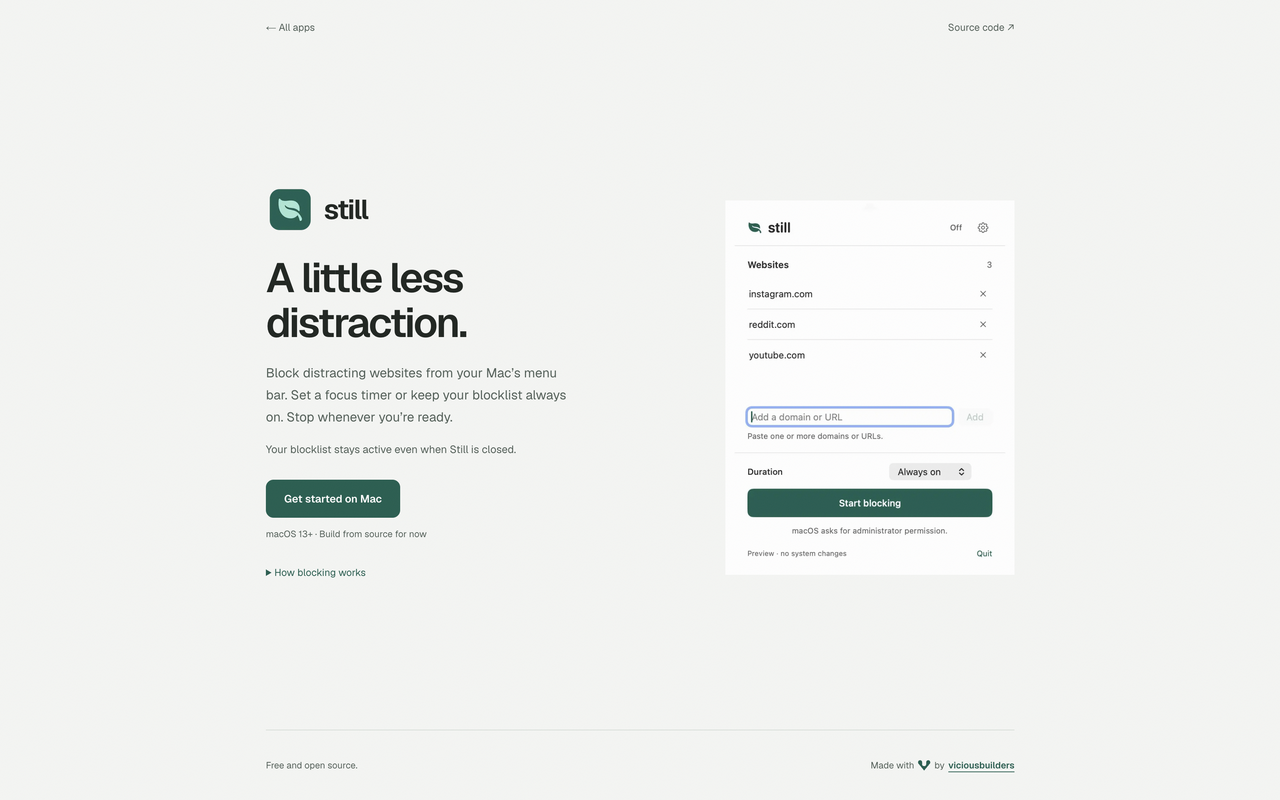
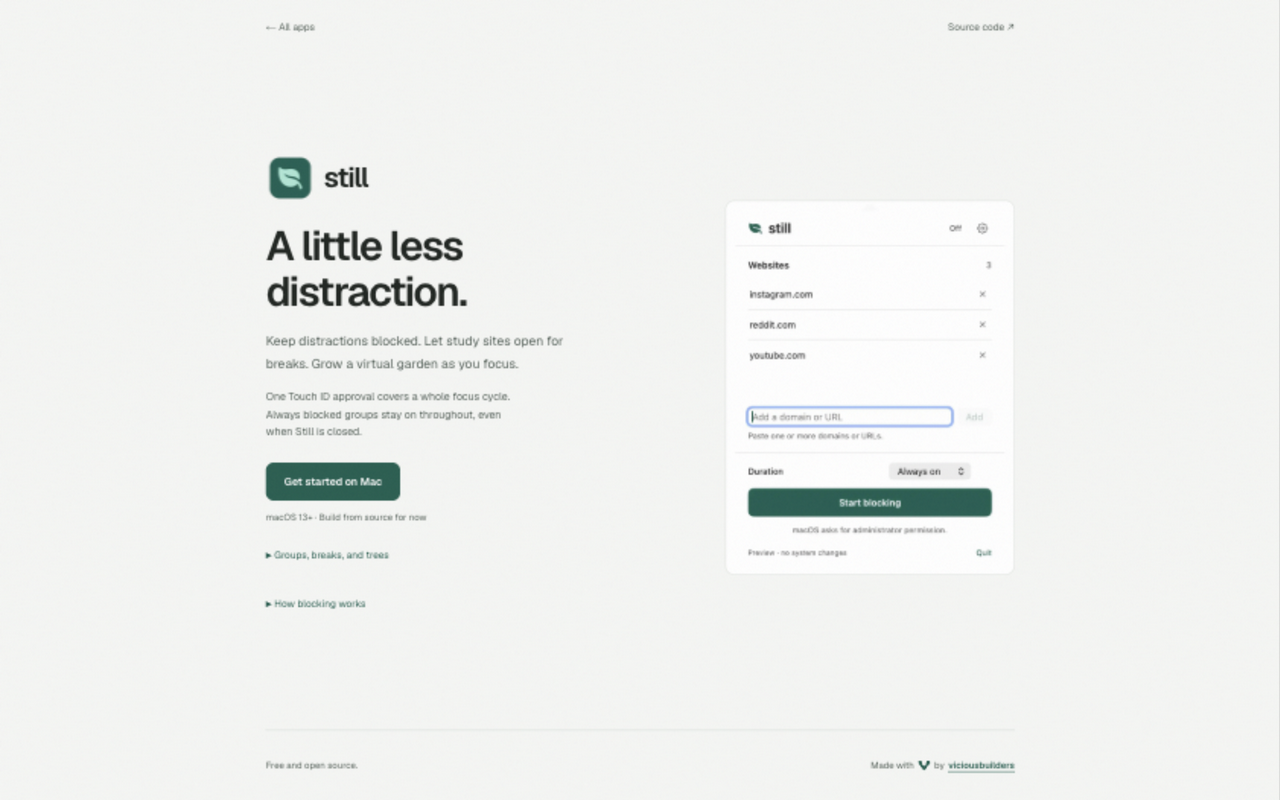
Update Still page for block groups, focus cycles, and garden

diff --git a/src/app/still/page.tsx b/src/app/still/page.tsx
@@ -8,11 +8,11 @@ const source = "https://github.com/viciousbuilders/still";
 export const metadata: Metadata = {
   title: "Still | Block distracting websites on your Mac",
   description:
-    "A free, open-source website blocker in your Mac’s menu bar. Set a focus timer or keep your blocklist always on. Turn it off whenever you want.",
+    "A free, open-source Mac focus timer and website blocker. Organize block groups, automate study breaks with one approval, and grow a virtual garden.",
   alternates: { canonical: "https://viciousbuilders.com/still" },
   openGraph: {
     title: "Still | Block distracting websites on your Mac",
-    description: "A focus timer or an always-on blocklist, right in your menu bar.",
+    description: "Block groups, focus cycles, and a small virtual garden, right in your Mac’s menu bar.",
     url: "https://viciousbuilders.com/still",
     images: [{ url: "https://viciousbuilders.com/still/icon.png", width: 512, height: 512, alt: "Still’s green leaf icon" }],
   },
@@ -34,11 +34,12 @@ export default function StillPage() {
           </div>
           <h1>A little less distraction.</h1>
           <p className={styles.description}>
-            Block distracting websites from your Mac’s menu bar. Set a focus
-            timer or keep your blocklist always on. Stop whenever you’re ready.
+            Keep distractions blocked. Let study sites open for breaks.
+            Grow a virtual garden as you focus.
           </p>
           <p className={styles.persistence}>
-            Your blocklist stays active even when Still is closed.
+            One Touch ID approval covers a whole focus cycle. Always blocked
+            groups stay on throughout, even when Still is closed.
           </p>
           <div className={styles.actions}>
             <a href={`${source}#build-and-open`} aria-describedby="still-requirements" className={styles.primary}>
@@ -48,6 +49,20 @@ export default function StillPage() {
               macOS 13+ · Build from source for now
             </p>
           </div>
+          <details className={styles.details}>
+            <summary>Groups, breaks, and trees</summary>
+            <p>
+              Keep Facebook, TikTok, and Threads in Always blocked. Put
+              Instagram, LinkedIn, and X in Study. Choose 25/5 or 50/10
+              focus cycles, and Still handles the breaks. Each 25 recorded
+              focus minutes grows a virtual tree; partial progress carries over.
+            </p>
+            <p>
+              Touch ID uses your Mac password as a fallback. Administrator
+              setup is required once; Macs without Touch ID use administrator
+              approval. Your garden stays on this Mac.
+            </p>
+          </details>
           <details className={styles.details}>
             <summary>How blocking works</summary>
             <p>
@@ -65,9 +80,9 @@ export default function StillPage() {
         <figure className={styles.preview}>
           <Image
             src="/still/app.png"
-            alt="Still’s menu bar panel with three websites, an Always on duration, and a Start blocking button."
-            width={812}
-            height={1052}
+            alt="Still’s Focus panel with the Study group, 25/5 focus and break durations, four rounds, and progress toward a virtual tree."
+            width={800}
+            height={1240}
             preload
             sizes="(min-width: 900px) 380px, (min-width: 460px) 360px, calc(100vw - 48px)"
           />

diff --git a/src/app/apps.ts b/src/app/apps.ts
@@ -84,7 +84,7 @@ export const apps: App[] = [
     image: "/project-screenshots/still-landing.png",
     imageAlt: "Still landing page with its website blocker preview",
     description:
-      "Block distracting websites from your Mac’s menu bar. Set a focus timer or keep your blocklist always on.",
+      "Block websites in groups, take automatic study breaks, and grow a virtual garden with your focus time.",
     href: "/still",
     domain: "viciousbuilders.com/still",
   },

diff --git a/src/app/still/still.module.css b/src/app/still/still.module.css
@@ -125,7 +125,13 @@
   text-underline-offset: 4px;
 }
 .preview { width: 100%; max-width: 380px; }
-.preview img { display: block; width: 100%; height: auto; }
+.preview img {
+  display: block;
+  width: 100%;
+  height: auto;
+  border: 1px solid var(--hair);
+  border-radius: 12px;
+}
 .footer {
   width: min(984px, calc(100% - 56px));
   margin-inline: auto;
